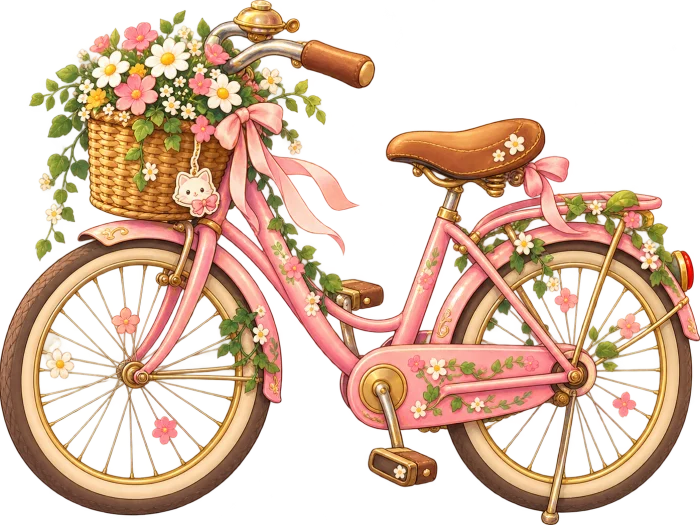
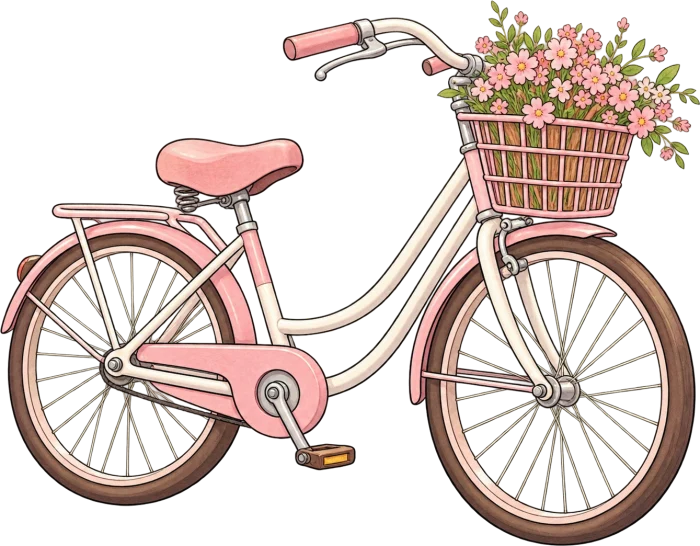
Ilustrações novas: títulos, ícones, molduras do contador, cachorrinho e ajustes no RSVP

diff --git a/style.css b/style.css
@@ -26,6 +26,7 @@ body {
   font-size: 18px;
   color: var(--ink);
   line-height: 1.45;
+  font-variant-numeric: lining-nums;   /* Alegreya usa números "antigos" por padrão */
   background: #f6e9cf;
   overflow-x: hidden;
   -webkit-font-smoothing: antialiased;
@@ -258,55 +259,18 @@ img { max-width: 100%; height: auto; }
     0 18px 40px rgba(70, 45, 20, 0.3);
 }
 
-/* Faixa de fita (título dos cards) */
-.ribbon {
+/* Título em imagem (faixa pintada) */
+.ribbon-img {
   position: absolute;
   z-index: 2;
-  top: -24px;
+  top: -36px;
   left: 50%;
-  margin: 0;
-  width: max-content;
-  max-width: calc(100% - 40px);
   translate: -50% 0;
-  font-family: var(--font-body);
-  font-weight: 500;
-  font-size: clamp(1.15rem, 2vw, 1.5rem);
-  white-space: nowrap;
+  width: min(440px, 92%);
+  margin: 0;
+  line-height: 0;
 }
-.ribbon span {
-  position: relative;
-  z-index: 1;
-  display: block;
-  padding: 9px 32px;
-  border-radius: 4px;
-  overflow: hidden;
-  text-overflow: ellipsis;
-}
-.ribbon::before,
-.ribbon::after {
-  content: '';
-  position: absolute;
-  z-index: 0;
-  top: 12px;
-  width: 38px;
-  height: 100%;
-}
-.ribbon::before { left: -26px; clip-path: polygon(0 0, 100% 0, 100% 100%, 0 100%, 32% 50%); }
-.ribbon::after { right: -26px; clip-path: polygon(0 0, 100% 0, 68% 50%, 100% 100%, 0 100%); }
-
-.ribbon--pink span {
-  color: #fff8ee;
-  background: linear-gradient(180deg, #ef8fb0, #d9628c);
-  box-shadow: inset 0 0 0 2px rgba(255,255,255,.3), 0 4px 8px rgba(160, 50, 90, 0.35);
-  text-shadow: 0 1px 2px rgba(130, 30, 70, 0.45);
-}
-.ribbon--pink::before, .ribbon--pink::after { background: #b9507a; }
-.ribbon--cream span {
-  color: var(--ink);
-  background: linear-gradient(180deg, #f8e6bd, #e5c88c);
-  box-shadow: inset 0 0 0 2px rgba(255,255,255,.45), 0 4px 8px rgba(90, 58, 34, 0.25);
-}
-.ribbon--cream::before, .ribbon--cream::after { background: #c9a463; }
+.ribbon-img img { width: 100%; filter: drop-shadow(0 4px 6px rgba(160, 50, 90, 0.3)); }
 
 .vine-deco {
   position: absolute;
@@ -356,7 +320,14 @@ img { max-width: 100%; height: auto; }
   color: var(--gold);
   background: var(--parchment);
 }
-.details__icon { flex: none; font-size: 28px; line-height: 1; }
+.details__icon { flex: none; width: auto; height: 34px; filter: drop-shadow(0 2px 2px rgba(90, 47, 34, 0.15)); }
+
+/* Ícones ilustrados em linha (botão do mapa, prazo, acompanhantes, agradecimento) */
+.btn__icon { height: 1.35em; width: auto; filter: drop-shadow(0 1px 1px rgba(0, 0, 0, 0.2)); }
+.btn__icon--small { height: 1em; }
+.inline-icon { height: 1.4em; width: auto; vertical-align: -0.35em; margin-right: 4px; }
+.field__label .inline-icon { height: 1.5em; margin: 0; }
+.thanks-icon { height: 64px; width: auto; }
 /* Casinha recortada do assets — bordas esfumadas para fundir no pergaminho */
 .details__art {
   width: 100%;
@@ -374,58 +345,34 @@ img { max-width: 100%; height: auto; }
   padding: 8px 0;
 }
 .cd-box {
-  --b: #a9c48e;
-  --bg: #fbf6e6;
   --num: #5a3a22;
-  --flower: '✿';
-  position: relative;
-  padding: 30px 4px 22px;
+  display: flex;
+  flex-direction: column;
+  align-items: center;
+  justify-content: center;
+  width: 100%;
+  max-width: 150px;
+  justify-self: center;
+  aspect-ratio: 300 / 395;     /* proporção das molduras em img/ */
   text-align: center;
-  border-radius: 20px;
-  background: var(--bg);
-  border: 2px solid var(--b);
-  box-shadow: inset 0 0 0 4px var(--bg), inset 0 0 0 5.5px var(--b), 0 6px 14px rgba(90, 58, 34, 0.12);
+  /* Moldura floral ilustrada (img/moldura-*.webp) */
+  background: var(--frame) center / contain no-repeat;
+  filter: drop-shadow(0 6px 8px rgba(90, 58, 34, 0.15));
 }
-/* Guirlandinha de flores em cima e embaixo */
-.cd-box::before,
-.cd-box::after {
-  position: absolute;
-  left: 50%;
-  translate: -50% 0;
-  padding: 0 4px;
-  font-size: 14px;
-  letter-spacing: 1px;
-  white-space: nowrap;
-  color: var(--b);
-  background: var(--bg);
-  border-radius: 8px;
-}
-.cd-box::before { content: '❀ ✿ ❀'; top: -11px; font-size: 16px; }
-.cd-box::after { content: '✿  ✿'; bottom: -10px; }
 .cd-box span {
   display: block;
   font-weight: 700;
-  font-size: clamp(2.2rem, 4.4vw, 3.4rem);
+  font-size: clamp(2rem, 4vw, 3.2rem);
   line-height: 1;
   color: var(--num);
 }
 .cd-box span.tick { animation: tick 0.4s; }
-.cd-box small { display: block; margin-top: 8px; font-size: 1.05rem; font-weight: 500; color: var(--num); }
-.cd-box--green { --b: #a9c48e; --bg: #fbf8ea; --num: #5a3a22; }
-.cd-box--pink { --b: #f0a6bd; --bg: #fff2f2; --num: #8a2f3c; }
-.cd-box--blue { --b: #9dbfe0; --bg: #f2f7fb; --num: #2f4a72; }
-.cd-box--yellow { --b: #eec66a; --bg: #fff9e8; --num: #8a5a14; }
+.cd-box small { display: block; margin-top: 6px; font-size: clamp(0.85rem, 1.4vw, 1.05rem); font-weight: 500; color: var(--num); }
+.cd-box--green { --frame: url('img/moldura-dias.webp'); --num: #5a3a22; }
+.cd-box--pink { --frame: url('img/moldura-horas.webp'); --num: #8a2f3c; }
+.cd-box--blue { --frame: url('img/moldura-minutos.webp'); --num: #2f4a72; }
+.cd-box--yellow { --frame: url('img/moldura-segundos.webp'); --num: #8a5a14; }
 .countdown__done { text-align: center; font-size: 1.4rem; font-weight: 700; margin: 18px 0 0; }
-.sleepy-cat {
-  position: absolute;
-  right: 18px;
-  bottom: -20px;
-  width: 120px;
-  -webkit-mask-image: radial-gradient(ellipse 60% 62% at 50% 55%, #000 60%, transparent 100%);
-  mask-image: radial-gradient(ellipse 60% 62% at 50% 55%, #000 60%, transparent 100%);
-  animation: breathe 3s ease-in-out infinite;
-  transform-origin: bottom center;
-}
 
 /* ---------- RSVP ---------- */
 .rsvp-scene {
@@ -444,14 +391,14 @@ img { max-width: 100%; height: auto; }
 .rsvp-scene__bike {
   position: relative;
   z-index: 4;
-  width: 300px;
+  width: 260px;
   max-width: none;
-  margin-left: -70px;
+  margin-left: -26px;
   margin-bottom: -26px;
   filter: drop-shadow(0 10px 14px rgba(70, 45, 20, 0.3));
 }
 
-.rsvp { padding-bottom: 22px; }
+.rsvp { padding-bottom: 22px; container-type: inline-size; }
 .rsvp__hint { margin: 0; text-align: center; font-size: 1.1rem; }
 .rsvp__divider {
   margin: 4px auto 18px;
@@ -466,14 +413,23 @@ img { max-width: 100%; height: auto; }
 
 .rsvp__form {
   display: grid;
-  grid-template-columns: 1.3fr 1fr auto;
+  grid-template-columns: minmax(0, 1.3fr) minmax(200px, 1fr) auto;
   align-items: end;
   gap: 22px 28px;
   max-width: 900px;
   margin: 0 auto;
 }
-.field { display: grid; gap: 8px; }
-.field__label { font-weight: 700; font-size: 1.1rem; padding-left: 4px; }
+.field { display: grid; gap: 8px; min-width: 0; }   /* min-width evita o campo invadir a coluna vizinha */
+.field__label {
+  display: flex;
+  align-items: center;
+  gap: 6px;
+  min-height: 1.6em;
+  white-space: nowrap;
+  font-weight: 700;
+  font-size: 1.1rem;
+  padding-left: 4px;
+}
 .field__input {
   display: flex;
   align-items: center;
@@ -494,6 +450,7 @@ img { max-width: 100%; height: auto; }
   outline: none;
   background: transparent;
   font: 500 1.1rem var(--font-body);
+  font-variant-numeric: lining-nums;   /* o atalho "font" desfaz a regra do body */
   color: var(--ink);
 }
 .field__input input::placeholder { color: #a8907a; }
@@ -527,6 +484,7 @@ img { max-width: 100%; height: auto; }
   background: transparent;
   text-align: center;
   font: 700 1.3rem var(--font-body);
+  font-variant-numeric: lining-nums;
   color: var(--ink);
   -moz-appearance: textfield;
   appearance: textfield;
@@ -541,6 +499,23 @@ img { max-width: 100%; height: auto; }
   border-left: 1.5px dashed var(--parchment-line);
 }
 .rsvp__actions .btn { min-width: 250px; }
+/* Card estreito: campos lado a lado e botões numa linha embaixo */
+@container (max-width: 880px) {
+  .rsvp__form { grid-template-columns: minmax(0, 1.4fr) minmax(180px, 1fr); }
+  .rsvp__actions {
+    grid-column: 1 / -1;
+    grid-template-columns: 1fr 1fr;
+    padding: 18px 0 0;
+    border-left: none;
+    border-top: 1.5px dashed var(--parchment-line);
+  }
+  .rsvp__actions .btn { min-width: 0; }
+}
+@container (max-width: 480px) {
+  .rsvp__form { grid-template-columns: 1fr; }
+  .rsvp__actions { grid-template-columns: 1fr; }
+}
+
 .rsvp__error { grid-column: 1 / -1; margin: -6px 0 0; color: #c0392b; font-weight: 700; text-align: center; }
 
 .rsvp__thanks { text-align: center; animation: popIn 0.6s cubic-bezier(.34, 1.56, .64, 1); }
@@ -650,10 +625,10 @@ img { max-width: 100%; height: auto; }
 /* ---------- Cachorrinho ---------- */
 .doggo {
   position: absolute;
-  right: 22px;
-  top: -104px;
+  right: 14px;
+  bottom: -26px;
   z-index: 3;
-  width: 150px;
+  width: 130px;
   padding: 0;
   border: none;
   background: none;
@@ -750,9 +725,6 @@ img { max-width: 100%; height: auto; }
   .page { padding: 24px 16px 40px; gap: 60px; }
   .hero { grid-template-columns: 1fr; gap: 20px; min-height: auto; }
   .grid-2 { grid-template-columns: 1fr; gap: 60px; }
-  .rsvp__form { grid-template-columns: 1fr 1fr; }
-  .rsvp__actions { grid-column: 1 / -1; padding-left: 0; border-left: none; grid-template-columns: 1fr 1fr; }
-  .rsvp__actions .btn { min-width: 0; }
 }
 
 @media (max-width: 560px) {
@@ -763,17 +735,11 @@ img { max-width: 100%; height: auto; }
   .details__art { width: 62%; justify-self: center; order: -1; }
   .details__list { font-size: 1.05rem; padding-left: 0; }
   .btn--green { width: 100%; }
-  .countdown { grid-template-columns: repeat(2, 1fr); gap: 24px 14px; }
-  .sleepy-cat { width: 96px; }
-  .rsvp__form { grid-template-columns: 1fr; }
-  .rsvp__actions { grid-template-columns: 1fr; }
+  .countdown { grid-template-columns: repeat(2, 1fr); gap: 16px 14px; }
   .rsvp-scene__sign { width: 130px; }
   .rsvp-scene__bike { width: 200px; }
   .signnav { width: 200px; }
-  /* No celular o cachorrinho deita no canto de baixo do card */
-  .doggo { top: auto; bottom: -34px; right: auto; left: -8px; width: 104px; }
-  .doggo__bubble { left: 60px; top: -10px; }
-  .doggo__bubble::after { right: auto; left: 14px; }
+  .doggo { width: 104px; right: 8px; bottom: -22px; }
 }
 
 @media (prefers-reduced-motion: reduce) {

diff --git a/index.html b/index.html
@@ -96,16 +96,16 @@
     <div class="grid-2">
 
       <section id="detalhes" class="parchment details reveal">
-        <h2 class="ribbon ribbon--pink"><span>🌼 Detalhes da Aventura ✦</span></h2>
+        <h2 class="ribbon-img"><img src="img/titulo-detalhes.webp" alt="Detalhes da Aventura" width="840" height="132" /></h2>
 
         <div class="details__body">
           <ul class="details__list">
             <!-- ✏ Altere a data exibida aqui (e também EVENT_DATE no script.js) -->
-            <li><span class="details__icon" aria-hidden="true">📅</span>Quinta-feira, 22 de Outubro de 2026</li>
+            <li><img class="details__icon" src="img/icone-calendario.webp" alt="" width="127" height="128" />Quinta-feira, 22 de Outubro de 2026</li>
             <!-- ✏ Altere o horário aqui -->
-            <li><span class="details__icon" aria-hidden="true">🕢</span>Às 19h30</li>
+            <li><img class="details__icon" src="img/icone-relogio.webp" alt="" width="118" height="128" />Às 19h30</li>
             <!-- ✏ Altere o endereço aqui -->
-            <li><span class="details__icon" aria-hidden="true">📍</span><span>Rua Miguel Pedro de Sousa, 379<br />Vila São Pedro – Jucás/CE</span></li>
+            <li><img class="details__icon" src="img/icone-local.webp" alt="" width="101" height="128" /><span>Rua Miguel Pedro de Sousa, 379<br />Vila São Pedro – Jucás/CE</span></li>
           </ul>
 
           <img class="details__art" src="img/casinha.webp" alt="" width="340" height="472" loading="lazy" />
@@ -117,13 +117,13 @@
         -->
         <a href="https://www.google.com/maps/search/?api=1&amp;query=Rua+Miguel+Pedro+de+Sousa%2C+379%2C+Vila+S%C3%A3o+Pedro%2C+Juc%C3%A1s+-+CE"
            target="_blank" rel="noopener" class="btn btn--green">
-          📍 Ver no Google Maps <span aria-hidden="true">↗</span>
+          <img class="btn__icon" src="img/icone-local.webp" alt="" width="101" height="128" /> Ver no Google Maps <img class="btn__icon btn__icon--small" src="img/icone-externo.webp" alt="" width="98" height="96" />
         </a>
         <span class="vine-deco vine-deco--left" aria-hidden="true">🌿<br />🌸<br />🌿<br />🌼</span>
       </section>
 
       <section id="contador" class="parchment countdown-card reveal">
-        <h2 class="ribbon ribbon--cream"><span>⏳ Falta pouco para a festa!</span></h2>
+        <h2 class="ribbon-img"><img src="img/titulo-contador.webp" alt="Falta pouco para a festa!" width="840" height="157" /></h2>
 
         <div class="countdown" aria-live="polite">
           <div class="cd-box cd-box--green"><span id="cd-days">00</span><small>Dias</small></div>
@@ -132,7 +132,11 @@
           <div class="cd-box cd-box--yellow"><span id="cd-seconds">00</span><small>Segundos</small></div>
         </div>
         <p class="countdown__done" id="countdownDone" hidden>🎉 Chegou o grande dia! 🎉</p>
-        <img class="sleepy-cat" src="img/gatinho.webp" alt="" width="220" height="147" loading="lazy" />
+        <!-- Cachorrinho: toque para ele latir de alegria -->
+        <button class="doggo" id="doggo" aria-label="Fazer carinho no cachorrinho" title="Faz carinho!">
+          <span class="doggo__bubble" aria-hidden="true">Au au! 🐾</span>
+          <img src="img/cachorrinho.webp" alt="" width="420" height="358" loading="lazy" />
+        </button>
       </section>
     </div>
 
@@ -142,9 +146,9 @@
            alt="Placas: Boas amizades sempre nos levam mais longe" />
 
       <section id="rsvp" class="parchment rsvp reveal">
-        <h2 class="ribbon ribbon--pink"><span>💌 Confirme sua presença ✦</span></h2>
+        <h2 class="ribbon-img"><img src="img/titulo-confirme.webp" alt="Confirme sua presença" width="840" height="125" /></h2>
         <!-- ✏ Altere a data limite de confirmação -->
-        <p class="rsvp__hint">🌸 Por favor, confirme até 20/10/2026 🌸</p>
+        <p class="rsvp__hint"><img class="inline-icon" src="img/icone-ampulheta.webp" alt="" width="92" height="128" /> Por favor, confirme até 20/10/2026</p>
         <p class="rsvp__divider" aria-hidden="true">♥</p>
 
         <!--
@@ -162,7 +166,7 @@
           </label>
 
           <div class="field">
-            <span class="field__label" id="guestsLabel">Acompanhantes</span>
+            <span class="field__label" id="guestsLabel"><img class="inline-icon" src="img/icone-pessoas.webp" alt="" width="142" height="128" /> Acompanhantes</span>
             <div class="stepper" role="group" aria-labelledby="guestsLabel">
               <button type="button" class="stepper__btn" data-step="-1" aria-label="Diminuir">−</button>
               <input type="number" id="guestCount" name="guests" value="0" min="0" max="10" inputmode="numeric" aria-labelledby="guestsLabel" />
@@ -184,15 +188,9 @@
         </div>
 
         <p class="rsvp__footer">🌸 Feito com <span class="heart">♥</span> para a Maya 🌸</p>
-
-        <!-- Cachorrinho: toque para ele latir de alegria -->
-        <button class="doggo" id="doggo" aria-label="Fazer carinho no cachorrinho" title="Faz carinho!">
-          <span class="doggo__bubble" aria-hidden="true">Au au! 🐾</span>
-          <img src="img/cachorrinho.webp" alt="" width="420" height="358" loading="lazy" />
-        </button>
       </section>
 
-      <img class="rsvp-scene__bike" src="img/bicicleta.webp" width="700" height="524" loading="lazy"
+      <img class="rsvp-scene__bike" src="img/bicicleta.webp" width="700" height="546" loading="lazy"
            alt="Bicicleta rosa com cestinha de flores" />
     </div>
 

diff --git a/script.js b/script.js
@@ -367,7 +367,9 @@ const music = (function initMusic() {
 
     form.hidden = true;
     thanks.hidden = false;
-    thanksEmoji.textContent = going ? "🎉" : "💌";
+    thanksEmoji.innerHTML = going
+      ? "🎉"
+      : '<img class="thanks-icon" src="img/icone-envelope.webp" alt="" width="185" height="128" />';
     thanksText.textContent = going
       ? `Ebaaa, ${name}! Mal podemos esperar pra pedalar com você${guests ? " e sua turma" : ""}! 🚲💗`
       : `Que pena, ${name}! Vamos sentir sua falta. Obrigado por avisar 💗`;
